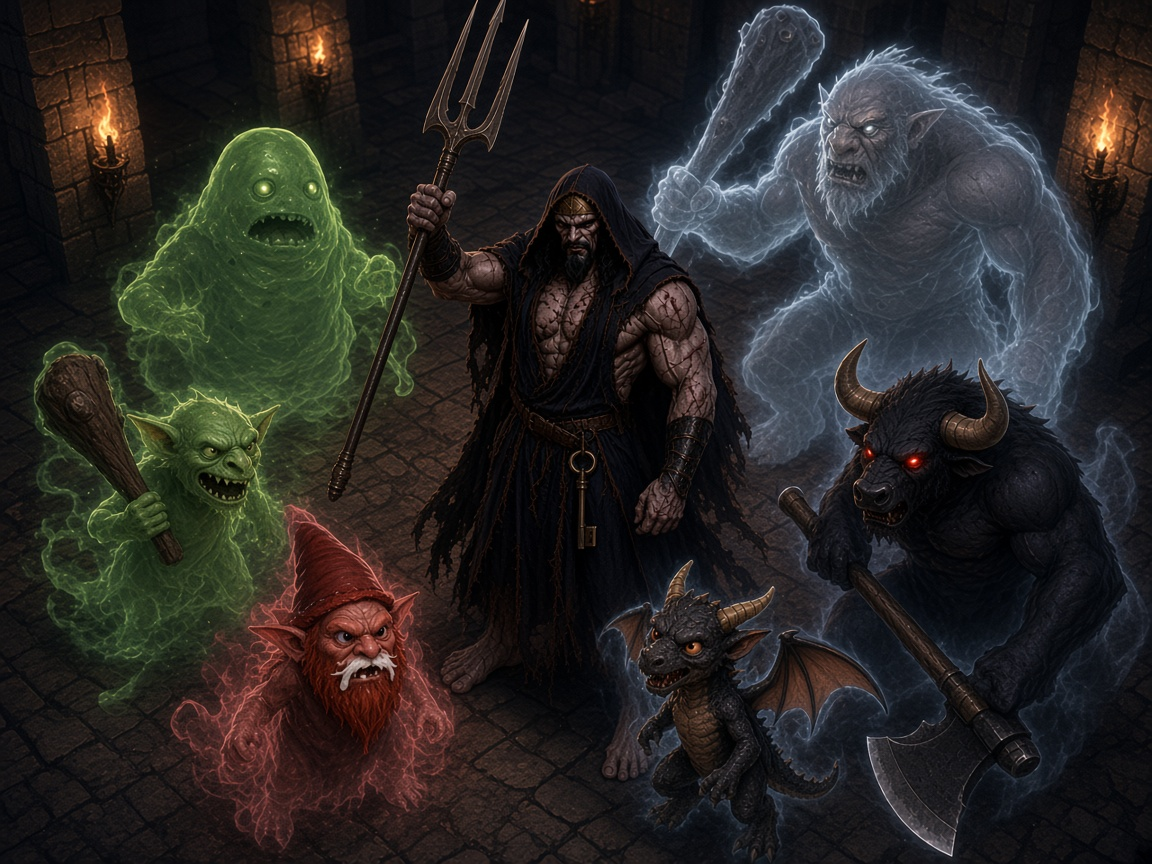
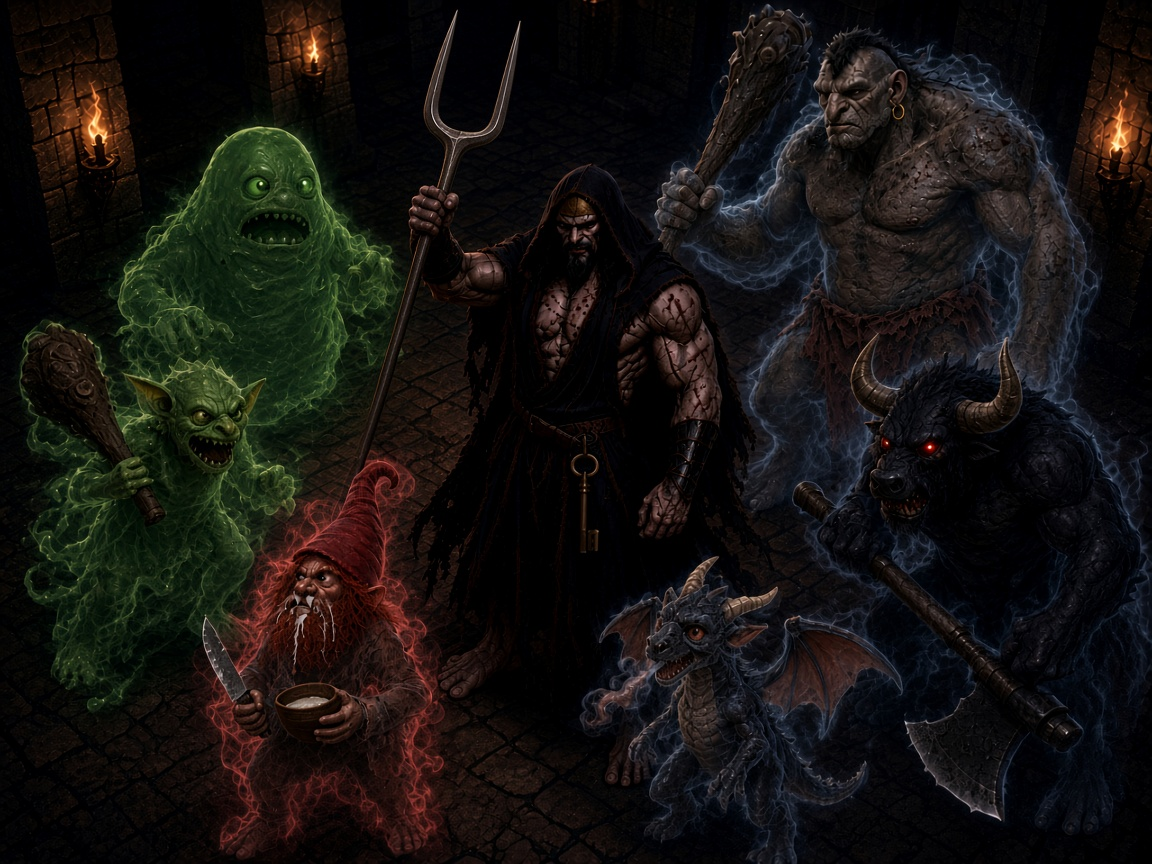
スキル基本の棘を暖かい黄色にし、コストとカード名を棘に合わせて右へ寄せる。死者の軍団の絵も試作に合わせる。

diff --git a/index.html b/index.html
@@ -5205,7 +5205,7 @@
     .card .card-fit .frame::before, .card .card-fit .frame::after { content: none; }
     .card .card-fit.k-attack.r0 { --frame-img: url("frame-basic-attack.png?v=2"); }
     .card .card-fit.k-block.r0 { --frame-img: url("frame-basic-block.png?v=2"); }
-    .card .card-fit.k-skill.r0 { --frame-img: url("frame-basic-skill.png?v=2"); }
+    .card .card-fit.k-skill.r0 { --frame-img: url("frame-basic-skill.png?v=3"); }
     .card .card-fit.k-power.r0 { --frame-img: url("frame-basic-item.png?v=2"); }
     .card .card-fit.k-foe.r0 { --frame-img: url("frame-basic-foe.png?v=2"); }
     .card .card-fit.k-attack.r1 { --frame-img: url("frame-red-over-copper.png?v=3"); }
@@ -5279,11 +5279,11 @@
       pointer-events: none;
     }
     .card .card-fit .cost {
-      left: 10.938cqw;
+      left: 11.068cqw;
       top: 11.400cqw;
       transform: translate(-50%, -50%);
-      width: 8cqw;
-      height: 8cqw;
+      width: 8.260cqw;
+      height: 8.260cqw;
       display: grid;
       place-items: center;
       line-height: 1;
@@ -5294,13 +5294,13 @@
       box-shadow: none;
       color: #fffef8;
       font-family: "Source Han Serif", "源ノ明朝", "Noto Serif JP", "Yu Mincho", serif;
-      font-size: 6.8cqw;
+      font-size: 7.060cqw;
       font-weight: 900;
       -webkit-text-stroke: 0;
       text-shadow: 0 1px 0 #140c08, 0 0 2px #140c08;
     }
     .card .card-fit .nameplate .name {
-      left: 20.5cqw;
+      left: 20.891cqw;
       right: 6.5cqw;
       top: 11.35cqw;
       transform: translateY(-50%);
@@ -10283,7 +10283,7 @@
       "餌だ!!": "card-bait-v3.jpg?v=1",
       さぼる: "card-slack.jpg?v=2",
       弱者の意地: "card-spite-v4.jpg?v=1",
-      死者の軍団: "card-legion.jpg?v=1",
+      死者の軍団: "card-legion.jpg?v=2",
       "怒り（敵）": "card-anger-foe.jpg?v=3",
     };
     function cardArtSrc(name) {
@@ -18483,7 +18483,7 @@
       ["style-navy-black", "敵 ボス", "frame-navy-over-black.png?v=2"],
       ["style-basic-attack", "アタック 基本", "frame-basic-attack.png?v=2"],
       ["style-basic-block", "ブロック 基本", "frame-basic-block.png?v=2"],
-      ["style-basic-skill", "スキル 基本", "frame-basic-skill.png?v=2"],
+      ["style-basic-skill", "スキル 基本", "frame-basic-skill.png?v=3"],
       ["style-basic-item", "アイテム 基本", "frame-basic-item.png?v=2"],
       ["style-over-copper", "ブロック ★", "frame-blue-over-copper.png?v=16"],
       ["style-over-silver", "ブロック ★★", "frame-blue-over-silver.png?v=15"],
